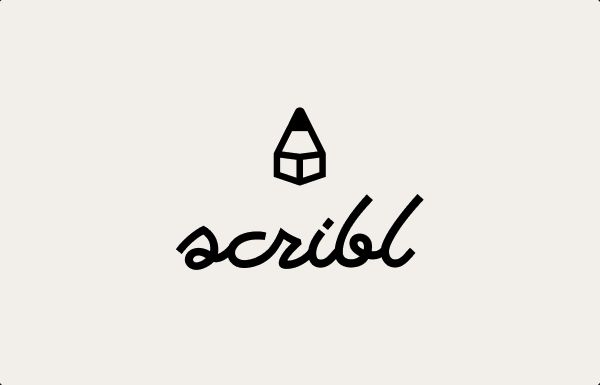
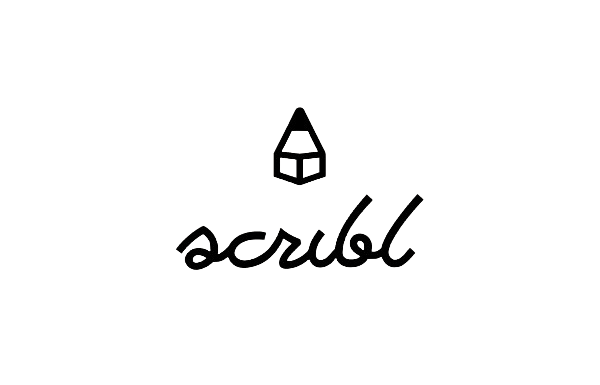
cards acabadas y con hover

diff --git a/resources/css/shared.css b/resources/css/shared.css
@@ -1,3 +1,11 @@
 body {
-    background-color: #f4f1ed;
+    background-color: #ffffff;
+}
+
+.card-body {
+    transition: transform 0.4s ease-in-out;
+}
+
+.card-body:hover {
+    transform: scale(1.05);
 }

diff --git a/resources/views/notes/index.blade.php b/resources/views/notes/index.blade.php
@@ -2,81 +2,97 @@
 @include ('layouts.main-header')
 <br>
 
-    <div class="display-inline" style="display: flex; justify-content: center; align-items: center; width: 100%; gap: 20px;">
+    <div class="display-inline" style="margin-top:-2rem; display: flex; justify-content: center; align-items: center; width: 100%; gap: 20px;">
 
         <form action="{{ route('notes.search') }}" method="GET" class="form-inline" style="flex: 1; display: flex; justify-content: center; align-items: center;">
-            <div class="form-group" style="width: 80%;">
-                <input type="text" name="search" class="form-control" placeholder="Search Notes" style="width: 100%;">
+            <div class="form-group;" style="width: 80%;">
+
+                  <input type="text" name="search" class="form-control" placeholder=" 🔎 Buscar..." style="width: 100%;">
             </div>
         </form>
 
         <form action="{{ route('notes.search-date') }}" method="GET" class="form-inline" style="flex: 1; display: flex; justify-content: center; align-items: center;">
             <div class="form-group" style="width: 80%;">
-                <input type="date" name="search" class="form-control" placeholder="Search Notes by Date" style="width: 100%;">
+                <input type="date" name="search" class="form-control" placeholder="Buscar por fecha" style="width: 100%;">
             </div>
-            {{-- <button type="submit" class="btn btn-primary ml-2">Search</button> --}}
+            <button type="submit" class="btn btn-primary ml-2">Search</button>
         </form>
 
     </div>
 
-    <div class="display-inline" style="display: flex; justify-content: space-between; align-items: center;">
+    <div class="display-inline" style="display: flex;padding-bottom: -4rem; margin-bottom:-2rem;  justify-content: space-between; align-items: center;">
         <h3 class="col-md-4">Mis notas</h3>
-        <a style= "color:black; margin-right:4rem; border-radius:5px" class="col-md-2 col-md-offset-9" href="{{ route('notes.create') }}">
-            <i class="fi fi-br-plus"></i> Añadir</a>
+        <a style= "color:rgb(255, 255, 255);margin-bottom:-2rem; padding-top: 0.6rem; width:15rem;  height:3rem; background-color:black; margin-right:4rem; border-radius:8px" class="col-md-2 col-md-offset-9" href="{{ route('notes.create') }}">
+            <i class="fi fi-br-plus"></i> Añadir
+        </a>
     </div>
+
+
+
 
     <hr style="border: 1px solid #cbc9c9; margin: 20px 0;">
 
     <div style="margin:4rem;" class="row">
         @foreach ($notes as $note)
             <div class="col-sm-3 d-flex">
-                <div class="card w-100" style="height: 300px">
-                    <div class="card-body" style="display: flex; flex-direction: column; justify-content: space-between;">
-                        <a href="{{ route('notes.show', $note->id) }}">{{ $note->header }}</a>
-                        <p>{{ $note->text }}</p>
-                        <div>
-                            @foreach ($note->images as $image)
-                                <img src="{{ asset('storage/' . $image->image_url) }}" alt="Imagen de la nota" style="width: 100%; height: 150px; object-fit: cover;">
-                            @endforeach
+                <a href="{{ route('notes.show', $note->id) }}" style="text-decoration: none; width: 100%; color:black;">
+                    <div class="card w-100" style="height: 370px;">
+                        <div class="card-body" style="margin-top:-2rem; height:330px; border-radius:6px; background-color:#e9e7e2; flex; flex-direction: column; justify-content: space-between;">
+                            <strong>
+                                <span style="font-size:20px; padding-left:1rem; color:black;">{{ $note->header }}</span>
+                            </strong>
+                            <br> <br>
+                            <div>
+                                @if($note->images->isEmpty())
+                                    <p style="text-align: center; padding-left:2rem; padding-right:2rem; overflow: hidden; text-overflow: ellipsis; display: -webkit-box; -webkit-line-clamp: 10; -webkit-box-orient: vertical;">
+                                        {{ $note->text }}
+                                    </p>
+                                @else
+                                    @foreach ($note->images as $image)
+                                        <img src="{{ asset('storage/' . $image->image_url) }}" alt="Imagen de la nota" style="padding-left:1rem; padding-right:1rem; border-radius:20px; width: 100%; height: 250px; object-fit: cover;">
+                                    @endforeach
+                                @endif
+                                </a>
 
-                                <div style="display: flex; align-items: center; justify-content: flex-end;">
 
-                                    <form method="POST" action="{{ route('notes.destroy', $note->id) }}">
-                                        @csrf
-                                        @method('DELETE')
-                                        <button class="submit">
-                                            <i class="fi fi-ss-trash"></i>
+                                    <div style="padding-top:0.45rem; border-radius:8px; display: flex; align-items: center; justify-content: flex-end;">
+
+                                        <form method="POST" action="{{ route('notes.destroy', $note->id) }}">
+                                            @csrf
+                                            @method('DELETE')
+                                            <button class="submit" style= "border: none; background-color:#e9e7e2;">
+                                                <i class="fi fi-ss-trash"></i>
+                                            </button>
+                                        </form>
+
+                                        <form method="GET" action="{{ route('notes.edit', $note->id) }}">
+                                            @csrf
+                                            @method('GET')
+                                            <button class="submit" style= "border: none; background-color:#e9e7e2;">
+                                                <i class="fi fi-sr-pencil"></i>
+                                            </button>
+                                        </form>
+
+                                        <button class="pin-btn" data-id="{{ $note->id }}" style= "border: none; background-color:#e9e7e2;">
+                                            @if ($note->pinned)
+                                                <i class="fi fi-sr-thumbtack"></i>
+                                                    @else
+                                                <i class="fi fi-rr-thumbtack"></i>
+                                            @endif
                                         </button>
-                                    </form>
-
-                                    <form method="GET" action="{{ route('notes.edit', $note->id) }}">
-                                        @csrf
-                                        @method('GET')
-                                        <button class="submit">
-                                            <i class="fi fi-sr-pencil"></i>
-                                        </button>
-                                    </form>
-
-
-                                    <button class="pin-btn" data-id="{{ $note->id }}" style="display: flex; align-items: center; gap: 5px;">
-                                        @if ($note->pinned)
-                                            <i class="fi fi-sr-thumbtack"></i>
-                                                 @else
-                                            <i class="fi fi-rr-thumbtack"></i>
-                                         @endif
-                                    </button>
-                                </div>
+                                    </div>
+                            </div>
                         </div>
-                    </div>
+                    </a>
                 </div>
             </div>
-        @endforeach
-    </div>
+    @endforeach
+</div>
 
 
-    @if (session('status'))
-        <div>{{ session('status') }}</div>
-    @endif
+@if (session('status'))
+    <div>{{ session('status') }}</div>
+@endif
 
 
 

diff --git a/resources/views/layouts/main-header.blade.php b/resources/views/layouts/main-header.blade.php
@@ -16,16 +16,16 @@
 
 
     <nav style="display: flex; justify-content: space-between; align-items: center;">
-        <div style="flex: 1; display: flex; justify-content: center; align-items: center; margin-left:19rem">
-            <img src="Scribl.png" alt="Scribl Logo" style="max-width:15rem">
+        <div style="flex: 1; display: flex; justify-content: center; align-items: center; margin-left:22rem">
+            <img src="Scribl.png" alt="Scribl Logo" style="max-width:20rem">
         </div>
 
-        <a href="{{ route('edit-profile.get') }}" class="btn btn-dark fw-bold" style="color:black; height: 3rem; border-radius: 5px;">
+        <a href="{{ route('edit-profile.get') }}" class="btn btn-dark fw-bold" style="color:black; height: 3rem; border-radius: 8px;">
             <i class="fi fi-sr-pencil"></i> Editar perfil
         </a>
         <form method="POST" action="{{ route('logout') }}" style="margin: 0;">
             @csrf
-            <button type="submit" class="btn btn-dark fw-bold" style="color:black; height: 3rem; border-radius: 5px;">
+            <button type="submit" class="btn btn-dark fw-bold" style="margin-right: 6rem; color:black; background-color:white; height: 3rem; border-radius: 8px;">
                 <i class="fi fi-bs-sign-out-alt"></i> Salir
             </button>
         </form>
